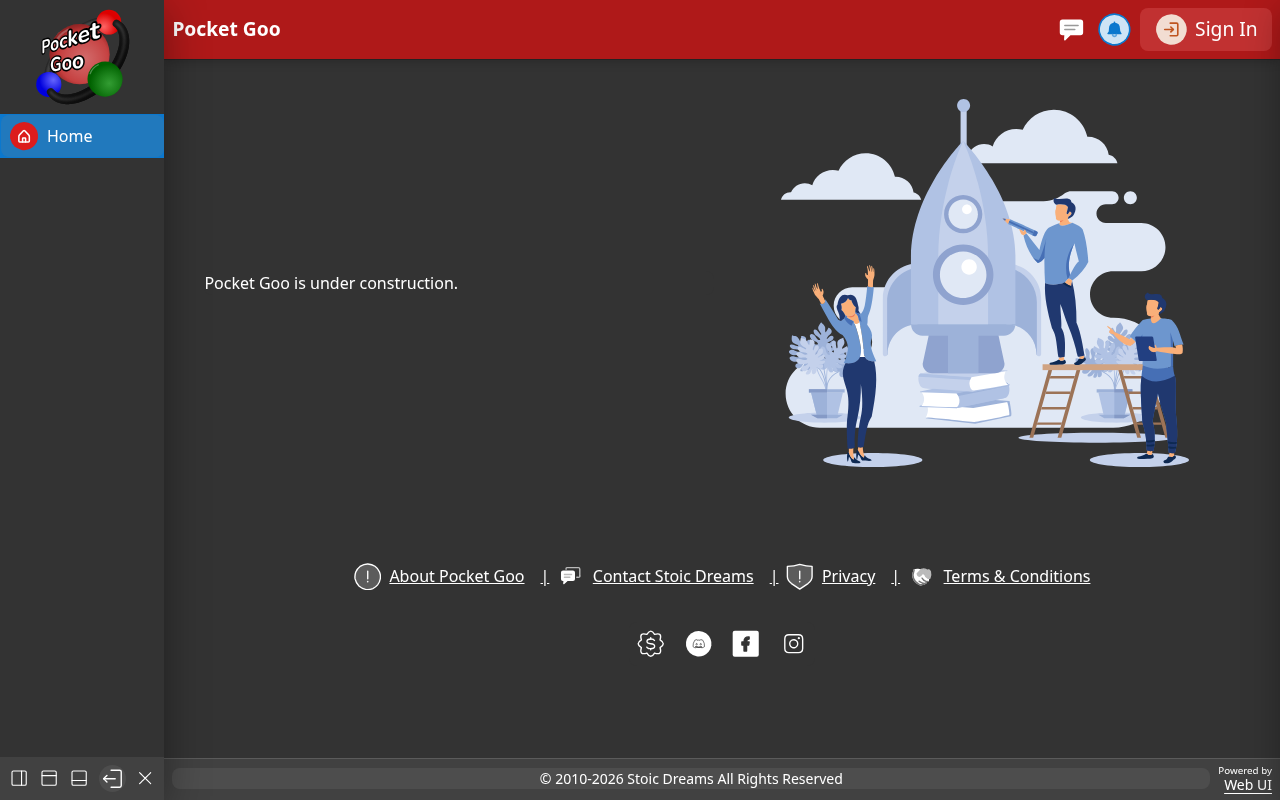
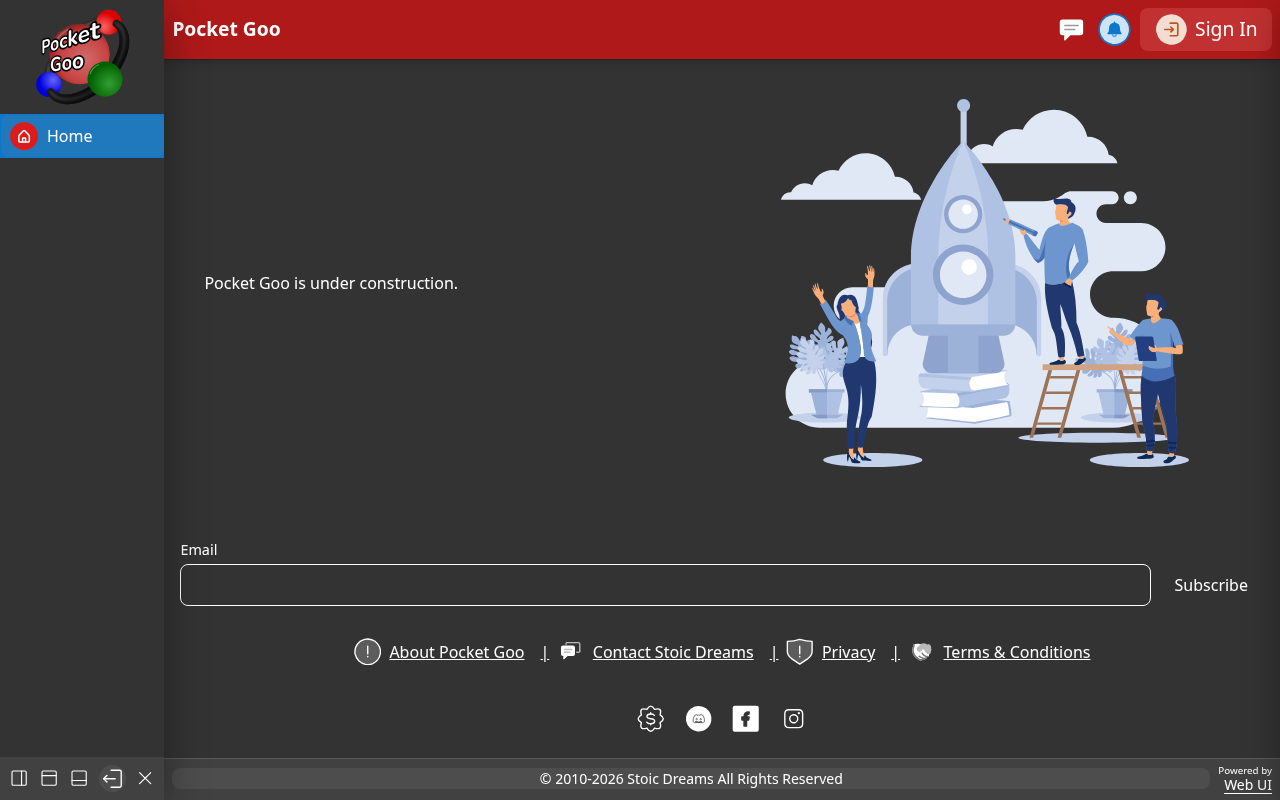
add newsletter

diff --git a/webapp/root_files/service-worker.min.js b/webapp/root_files/service-worker.min.js
@@ -1,1 +1,1 @@
-self.addEventListener("install",t=>t.waitUntil(onInstall(t))),self.addEventListener("activate",t=>t.waitUntil(onActivate(t))),self.addEventListener("fetch",t=>{const e=new URL(t.request.url);e.protocol==="ipc:"||e.protocol==="tauri:"||e.hostname==="ipc.localhost"||e.hostname==="tauri.localhost"||e.hostname.startsWith("127")||e.hostname==="localhost"||t.request.url.startsWith("http")&&allowCache(t.request)&&t.respondWith(onFetch(t))});const currentVersion="0.1.31",cacheNamePrefix="offline-cache-",cacheName=`${cacheNamePrefix}${currentVersion}`;async function onInstall(t){self.skipWaiting()}async function onActivate(t){const e=await caches.keys();await Promise.all(e.filter(a=>a.startsWith(cacheNamePrefix)&&a!==cacheName).map(a=>caches.delete(a))),await self.clients.claim()}async function onFetch(t){const e=await caches.open(cacheName);let a;try{a=await fetch(applyCacheBusting(t.request))}catch(n){const c=await e.match(t.request);if(c)return c;throw n}return a.ok?(t.waitUntil(e.put(t.request,a.clone()).catch(()=>{})),a):await e.match(t.request)||a}function applyCacheBusting(t){try{const e=new URL(t.url);return e.searchParams.set("_",Date.now()),new Request(e.toString(),t)}catch{return t}}function allowCache(t){return!(t.method!=="GET"||t.mode==="navigate")}
+self.addEventListener("install",t=>t.waitUntil(onInstall(t))),self.addEventListener("activate",t=>t.waitUntil(onActivate(t))),self.addEventListener("fetch",t=>{const e=new URL(t.request.url);e.protocol==="ipc:"||e.protocol==="tauri:"||e.hostname==="ipc.localhost"||e.hostname==="tauri.localhost"||e.hostname.startsWith("127")||e.hostname==="localhost"||t.request.url.startsWith("http")&&allowCache(t.request)&&t.respondWith(onFetch(t))});const currentVersion="0.1.32",cacheNamePrefix="offline-cache-",cacheName=`${cacheNamePrefix}${currentVersion}`;async function onInstall(t){self.skipWaiting()}async function onActivate(t){const e=await caches.keys();await Promise.all(e.filter(a=>a.startsWith(cacheNamePrefix)&&a!==cacheName).map(a=>caches.delete(a))),await self.clients.claim()}async function onFetch(t){const e=await caches.open(cacheName);let a;try{a=await fetch(applyCacheBusting(t.request))}catch(n){const c=await e.match(t.request);if(c)return c;throw n}return a.ok?(t.waitUntil(e.put(t.request,a.clone()).catch(()=>{})),a):await e.match(t.request)||a}function applyCacheBusting(t){try{const e=new URL(t.url);return e.searchParams.set("_",Date.now()),new Request(e.toString(),t)}catch{return t}}function allowCache(t){return!(t.method!=="GET"||t.mode==="navigate")}

diff --git a/webapp/pages/index.html b/webapp/pages/index.html
@@ -81,12 +81,13 @@
 	<link rel="preload" as="script" href="https://cdn.myfi.ws/webui/link.min.js" crossorigin="anonymous" />
 	<link rel="preload" as="script" href="https://cdn.myfi.ws/webui/myfi-info.min.js" crossorigin="anonymous" />
 	<link rel="preload" as="script" href="https://cdn.myfi.ws/webui/nav.min.js" crossorigin="anonymous" />
+	<link rel="preload" as="script" href="https://cdn.myfi.ws/webui/newsletter.min.js" crossorigin="anonymous" />
 	<link rel="preload" as="script" href="https://cdn.myfi.ws/webui/next-page.min.js" crossorigin="anonymous" />
 	<link rel="preload" as="script" href="https://cdn.myfi.ws/webui/page-footer.min.js" crossorigin="anonymous" />
 	<link rel="preload" as="script" href="https://cdn.myfi.ws/webui/stoic-dreams-logo.min.js" crossorigin="anonymous" />
 	<link rel="preload" as="script" href="https://cdn.myfi.ws/webui/stoic-social-links.min.js" crossorigin="anonymous" />
 	<link rel="preload" as="script" href="https://cdn.myfi.ws/webui/under-construction.min.js" crossorigin="anonymous" />
-	<meta name="webui-prerender" content="517c29e509">
+	<meta name="webui-prerender" content="d2e04d4e2d">
 </head>
 
 <body>
@@ -123,6 +124,7 @@
 		<noscript>Javascript is required to view this site</noscript>
 		<webui-page-footer copyright="2010" company="Stoic Dreams">
 			<webui-next-page theme="tertiary" data-subscribe="page-next-page"></webui-next-page>
+			<webui-newsletter key="703a9b5e-0a14-4ed7-9618-ce96ca4e3e21"></webui-newsletter>
 			<webui-flex class="my-3" justify="center" wrap>
 				<webui-link href="/about" icon="circle_exclamation|backing|bordered">About Pocket Goo</webui-link>
 				<webui-link href="/contact" icon="messages|fill|shade:tri">Contact Stoic Dreams</webui-link>

diff --git a/webapp/pages/about.html b/webapp/pages/about.html
@@ -83,11 +83,12 @@
 	<link rel="preload" as="script" href="https://cdn.myfi.ws/webui/link.min.js" crossorigin="anonymous" />
 	<link rel="preload" as="script" href="https://cdn.myfi.ws/webui/myfi-info.min.js" crossorigin="anonymous" />
 	<link rel="preload" as="script" href="https://cdn.myfi.ws/webui/nav.min.js" crossorigin="anonymous" />
+	<link rel="preload" as="script" href="https://cdn.myfi.ws/webui/newsletter.min.js" crossorigin="anonymous" />
 	<link rel="preload" as="script" href="https://cdn.myfi.ws/webui/next-page.min.js" crossorigin="anonymous" />
 	<link rel="preload" as="script" href="https://cdn.myfi.ws/webui/page-footer.min.js" crossorigin="anonymous" />
 	<link rel="preload" as="script" href="https://cdn.myfi.ws/webui/stoic-dreams-logo.min.js" crossorigin="anonymous" />
 	<link rel="preload" as="script" href="https://cdn.myfi.ws/webui/stoic-social-links.min.js" crossorigin="anonymous" />
-	<meta name="webui-prerender" content="8c459442a4">
+	<meta name="webui-prerender" content="8777ac490c">
 </head>
 
 <body>
@@ -126,6 +127,7 @@
 		<noscript>Javascript is required to view this site</noscript>
 		<webui-page-footer copyright="2010" company="Stoic Dreams">
 			<webui-next-page theme="tertiary" data-subscribe="page-next-page"></webui-next-page>
+			<webui-newsletter key="703a9b5e-0a14-4ed7-9618-ce96ca4e3e21"></webui-newsletter>
 			<webui-flex class="my-3" justify="center" wrap>
 				<webui-link href="/about" icon="circle_exclamation|backing|bordered">About Pocket Goo</webui-link>
 				<webui-link href="/contact" icon="messages|fill|shade:tri">Contact Stoic Dreams</webui-link>

diff --git a/webapp/pages/contact.html b/webapp/pages/contact.html
@@ -83,11 +83,12 @@
 	<link rel="preload" as="script" href="https://cdn.myfi.ws/webui/link.min.js" crossorigin="anonymous" />
 	<link rel="preload" as="script" href="https://cdn.myfi.ws/webui/myfi-info.min.js" crossorigin="anonymous" />
 	<link rel="preload" as="script" href="https://cdn.myfi.ws/webui/nav.min.js" crossorigin="anonymous" />
+	<link rel="preload" as="script" href="https://cdn.myfi.ws/webui/newsletter.min.js" crossorigin="anonymous" />
 	<link rel="preload" as="script" href="https://cdn.myfi.ws/webui/next-page.min.js" crossorigin="anonymous" />
 	<link rel="preload" as="script" href="https://cdn.myfi.ws/webui/page-footer.min.js" crossorigin="anonymous" />
 	<link rel="preload" as="script" href="https://cdn.myfi.ws/webui/stoic-dreams-logo.min.js" crossorigin="anonymous" />
 	<link rel="preload" as="script" href="https://cdn.myfi.ws/webui/stoic-social-links.min.js" crossorigin="anonymous" />
-	<meta name="webui-prerender" content="bd348c87b9">
+	<meta name="webui-prerender" content="7f4503a772">
 </head>
 
 <body>
@@ -124,6 +125,7 @@
 		<noscript>Javascript is required to view this site</noscript>
 		<webui-page-footer copyright="2010" company="Stoic Dreams">
 			<webui-next-page theme="tertiary" data-subscribe="page-next-page"></webui-next-page>
+			<webui-newsletter key="703a9b5e-0a14-4ed7-9618-ce96ca4e3e21"></webui-newsletter>
 			<webui-flex class="my-3" justify="center" wrap>
 				<webui-link href="/about" icon="circle_exclamation|backing|bordered">About Pocket Goo</webui-link>
 				<webui-link href="/contact" icon="messages|fill|shade:tri">Contact Stoic Dreams</webui-link>

diff --git a/webapp/pages/privacy.html b/webapp/pages/privacy.html
@@ -83,11 +83,12 @@
 	<link rel="preload" as="script" href="https://cdn.myfi.ws/webui/link.min.js" crossorigin="anonymous" />
 	<link rel="preload" as="script" href="https://cdn.myfi.ws/webui/myfi-info.min.js" crossorigin="anonymous" />
 	<link rel="preload" as="script" href="https://cdn.myfi.ws/webui/nav.min.js" crossorigin="anonymous" />
+	<link rel="preload" as="script" href="https://cdn.myfi.ws/webui/newsletter.min.js" crossorigin="anonymous" />
 	<link rel="preload" as="script" href="https://cdn.myfi.ws/webui/next-page.min.js" crossorigin="anonymous" />
 	<link rel="preload" as="script" href="https://cdn.myfi.ws/webui/page-footer.min.js" crossorigin="anonymous" />
 	<link rel="preload" as="script" href="https://cdn.myfi.ws/webui/stoic-dreams-logo.min.js" crossorigin="anonymous" />
 	<link rel="preload" as="script" href="https://cdn.myfi.ws/webui/stoic-social-links.min.js" crossorigin="anonymous" />
-	<meta name="webui-prerender" content="b3c5b96a58">
+	<meta name="webui-prerender" content="2d5a5a9d7b">
 </head>
 
 <body>
@@ -124,6 +125,7 @@
 		<noscript>Javascript is required to view this site</noscript>
 		<webui-page-footer copyright="2010" company="Stoic Dreams">
 			<webui-next-page theme="tertiary" data-subscribe="page-next-page"></webui-next-page>
+			<webui-newsletter key="703a9b5e-0a14-4ed7-9618-ce96ca4e3e21"></webui-newsletter>
 			<webui-flex class="my-3" justify="center" wrap>
 				<webui-link href="/about" icon="circle_exclamation|backing|bordered">About Pocket Goo</webui-link>
 				<webui-link href="/contact" icon="messages|fill|shade:tri">Contact Stoic Dreams</webui-link>

diff --git a/webapp/pages/terms.html b/webapp/pages/terms.html
@@ -83,11 +83,12 @@
 	<link rel="preload" as="script" href="https://cdn.myfi.ws/webui/link.min.js" crossorigin="anonymous" />
 	<link rel="preload" as="script" href="https://cdn.myfi.ws/webui/myfi-info.min.js" crossorigin="anonymous" />
 	<link rel="preload" as="script" href="https://cdn.myfi.ws/webui/nav.min.js" crossorigin="anonymous" />
+	<link rel="preload" as="script" href="https://cdn.myfi.ws/webui/newsletter.min.js" crossorigin="anonymous" />
 	<link rel="preload" as="script" href="https://cdn.myfi.ws/webui/next-page.min.js" crossorigin="anonymous" />
 	<link rel="preload" as="script" href="https://cdn.myfi.ws/webui/page-footer.min.js" crossorigin="anonymous" />
 	<link rel="preload" as="script" href="https://cdn.myfi.ws/webui/stoic-dreams-logo.min.js" crossorigin="anonymous" />
 	<link rel="preload" as="script" href="https://cdn.myfi.ws/webui/stoic-social-links.min.js" crossorigin="anonymous" />
-	<meta name="webui-prerender" content="e8e0cb079a">
+	<meta name="webui-prerender" content="3337a82fea">
 </head>
 
 <body>
@@ -124,6 +125,7 @@
 		<noscript>Javascript is required to view this site</noscript>
 		<webui-page-footer copyright="2010" company="Stoic Dreams">
 			<webui-next-page theme="tertiary" data-subscribe="page-next-page"></webui-next-page>
+			<webui-newsletter key="703a9b5e-0a14-4ed7-9618-ce96ca4e3e21"></webui-newsletter>
 			<webui-flex class="my-3" justify="center" wrap>
 				<webui-link href="/about" icon="circle_exclamation|backing|bordered">About Pocket Goo</webui-link>
 				<webui-link href="/contact" icon="messages|fill|shade:tri">Contact Stoic Dreams</webui-link>

diff --git a/webapp/index.html b/webapp/index.html
@@ -110,6 +110,7 @@
 		<noscript>Javascript is required to view this site</noscript>
 		<webui-page-footer copyright="2010" company="Stoic Dreams">
 			<webui-next-page theme="tertiary" data-subscribe="page-next-page"></webui-next-page>
+			<webui-newsletter key="703a9b5e-0a14-4ed7-9618-ce96ca4e3e21"></webui-newsletter>
 			<webui-flex class="my-3" justify="center" wrap>
 				<webui-link href="/about" icon="circle_exclamation|backing|bordered">About {APP_NAME}</webui-link>
 				<webui-link href="/contact" icon="messages|fill|shade:tri">Contact {COMPANY_SINGULAR}</webui-link>

diff --git a/webapp/root_files/service-worker.js b/webapp/root_files/service-worker.js
@@ -20,7 +20,7 @@ self.addEventListener('fetch', event => {
     }
     event.respondWith(onFetch(event))
 });
-const currentVersion = '0.1.31';
+const currentVersion = '0.1.32';
 const cacheNamePrefix = 'offline-cache-';
 const cacheName = `${cacheNamePrefix}${currentVersion}`;
 async function onInstall(event) {

diff --git a/Docs/README.md b/Docs/README.md
@@ -1,6 +1,6 @@
 # Pocket Goo
 
-[Version: 0.1.31](https://github.com/StoicDreams/PocketGoo)
+[Version: 0.1.32](https://github.com/StoicDreams/PocketGoo)
 
 [WebUI](https://github.com/StoicDreams/WebUI)
 
